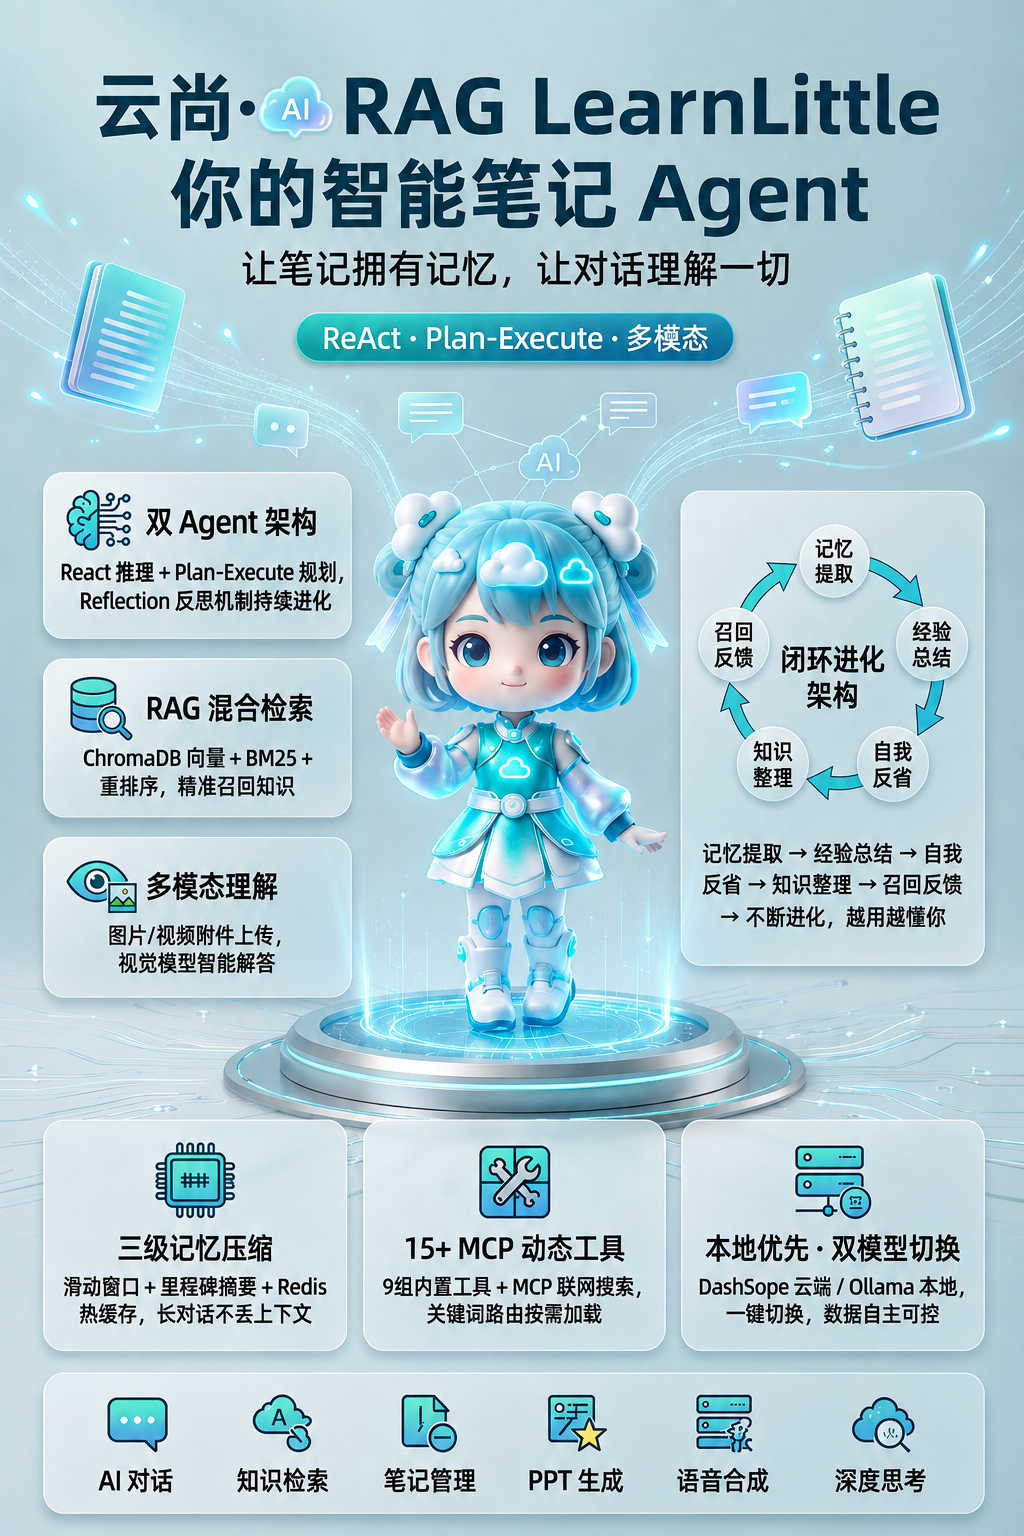
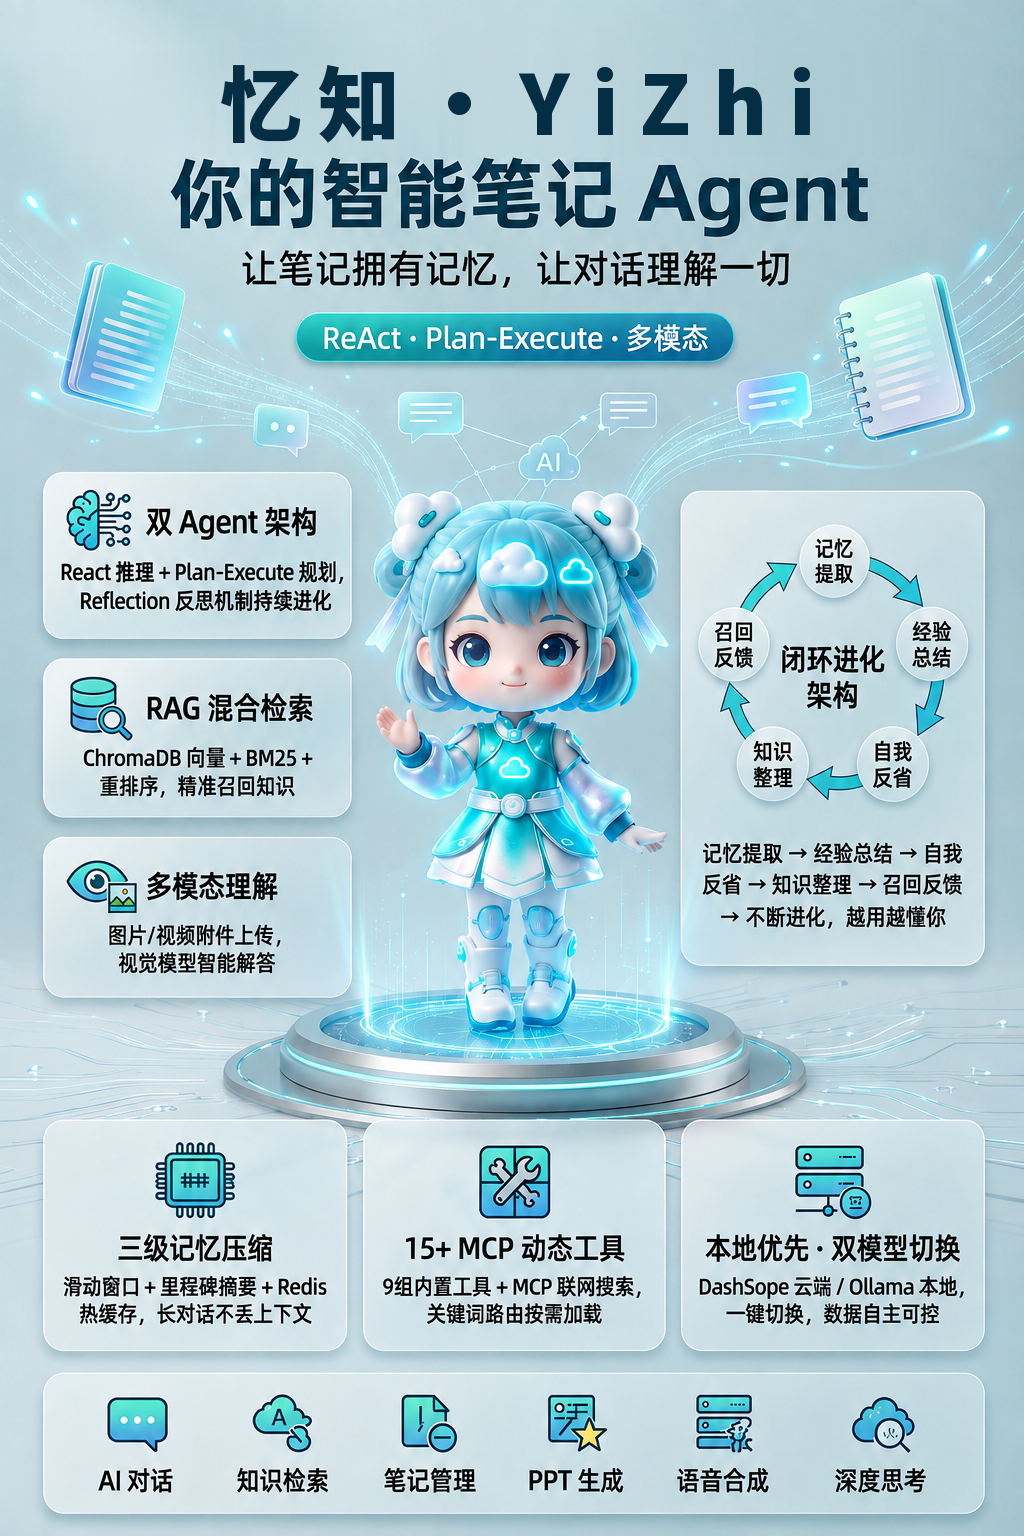
更名收尾：AI 人设名改为小忆，同步更新界面文案、头像与 README 截图

Changed region(s): [[0.0938, 0.0312, 0.9375, 0.0938]]

diff --git a/front/src/components/layout/AIAssistantPanel.tsx b/front/src/components/layout/AIAssistantPanel.tsx
@@ -278,9 +278,9 @@ export default function AIAssistantPanel({ isVisible, view, onViewChange, onClos
         }}
       >
         <div className="flex items-center gap-3 mb-2.5">
-          {/* 小云云角色头像（白色圆环） */}
+          {/* 小忆角色头像（白色圆环） */}
           <div className="w-10 h-10 rounded-full overflow-hidden shrink-0 ring-2 ring-white/30">
-            <img src="/avatars/xiaoyunyun.png" alt="小云云" className="w-full h-full object-cover" />
+            <img src="/avatars/xiaoyiyi.png" alt="小忆" className="w-full h-full object-cover" />
           </div>
           <div className="flex-1 min-w-0">
             <h3 className="text-base font-bold text-[var(--color-assistant-header-text)]">{t('assistant.title')}</h3>
@@ -376,7 +376,7 @@ export default function AIAssistantPanel({ isVisible, view, onViewChange, onClos
                     {/* 头像光晕背景 */}
                     <div className="absolute inset-0 rounded-full bg-gradient-to-br from-[#4a9eff]/20 to-[#4a9eff]/5 blur-xl" />
                     <div className="relative w-20 h-20 rounded-full overflow-hidden ring-2 ring-[#4a9eff]/20 ring-offset-2 ring-offset-[var(--color-assistant-bg)]">
-                      <img src="/avatars/xiaoyunyun.png" alt="小云云" className="w-full h-full object-cover" />
+                      <img src="/avatars/xiaoyiyi.png" alt="小忆" className="w-full h-full object-cover" />
                     </div>
                   </div>
                   <h2 className="text-xl font-bold mb-1.5 bg-gradient-to-r from-[#1a2a4a] to-[#4a9eff] bg-clip-text text-transparent">{t('assistant.emptyTitle')}</h2>

diff --git a/front/src/i18n/locales/zh-CN.ts b/front/src/i18n/locales/zh-CN.ts
@@ -19,7 +19,7 @@ const zh = {
 
   // 顶部导航栏（v2 新增）
   'topbar.searchPlaceholder': '搜索笔记... ⌘K',
-  'topbar.assistant': 'Hi, 我是 小云云 ~',
+  'topbar.assistant': 'Hi, 我是 小忆 ~',
   'topbar.userMenu': '用户菜单',
 
   // 全局搜索（v2 阶段四新增）
@@ -33,7 +33,7 @@ const zh = {
   'gsearch.searchFailed': '搜索失败，请稍后重试（网络或外部服务异常）',
 
   // AI 对话浮层（v2 新增）
-  'assistant.title': 'Hi, 我是 小云云 ~',
+  'assistant.title': 'Hi, 我是 小忆 ~',
   'assistant.subtitle': '基于你的笔记知识库，我可以帮你：',
   'assistant.viewChat': '对话',
   'assistant.viewHistory': '历史会话',

diff --git a/front/src/index.css b/front/src/index.css
@@ -75,7 +75,7 @@
   --color-search-border: #d4dff0;
   --color-search-focus-border: var(--color-accent);
 
-  /* AI 助手浮层专用 — 小云云海蓝色主题 */
+  /* AI 助手浮层专用 — 小忆海蓝色主题 */
   --color-assistant-bg: #ffffff;
   --color-assistant-border: #dce8f8;
   --color-assistant-shadow: 0 8px 32px rgba(74, 158, 255, 0.10);
@@ -96,7 +96,7 @@
   --color-badge-txt-bg: #e3f2fd;
   --color-badge-txt-text: #1565c0;
 
-  /* 快捷操作按钮（海蓝色系，与小云云海报统一） */
+  /* 快捷操作按钮（海蓝色系，与小忆海报统一） */
   --color-quick-action-bg: #eef4ff;
   --color-quick-action-text: #2b7de9;
   --color-quick-action-border: #c5dcff;

diff --git a/front/src/components/chat/MessageBubble.tsx b/front/src/components/chat/MessageBubble.tsx
@@ -97,7 +97,7 @@ export default function MessageBubble({ msg, isLast, isStreaming, userAvatar, pl
     <div className={`flex items-start gap-2 ${isUser ? 'justify-end' : 'justify-start'} ai-msg-enter`}>
       {!isUser && (
         <div className="flex-shrink-0 w-8 h-8 rounded-full overflow-hidden ring-2 ring-[#4a9eff]/15 shadow-[0_0_8px_rgba(74,158,255,0.12)]">
-          <img src="/avatars/xiaoyunyun.png" alt="小云云" className="w-full h-full object-cover" />
+          <img src="/avatars/xiaoyiyi.png" alt="小忆" className="w-full h-full object-cover" />
         </div>
       )}
       <div className={`max-w-[80%] p-3 rounded-[var(--radius-md)] ${

diff --git a/front/src/i18n/locales/en-US.ts b/front/src/i18n/locales/en-US.ts
@@ -19,7 +19,7 @@ const en = {
 
   // Top bar (v2)
   'topbar.searchPlaceholder': 'Search notes... ⌘K',
-  'topbar.assistant': "Hi, I'm YUNYUN ~",
+  'topbar.assistant': "Hi, I'm XIAOYI ~",
   'topbar.userMenu': 'User menu',
 
   // Global search (v2 phase 4)
@@ -33,7 +33,7 @@ const en = {
   'gsearch.searchFailed': 'Search failed. Please retry later (network or external service issue)',
 
   // AI assistant panel (v2)
-  'assistant.title': "Hi, I'm YUNYUN ~",
+  'assistant.title': "Hi, I'm XIAOYI ~",
   'assistant.subtitle': 'Based on your notes knowledge base, I can help you:',
   'assistant.viewChat': 'Chat',
   'assistant.viewHistory': 'History',

diff --git a/front/src/components/layout/TopBar.tsx b/front/src/components/layout/TopBar.tsx
@@ -69,7 +69,7 @@ export default function TopBar({ assistantVisible, onToggleAssistant, onGlobalSe
                 : 'text-[var(--color-quick-action-text)] bg-[var(--color-quick-action-bg)] border border-[var(--color-quick-action-border)] hover:opacity-90'
             }`}
         >
-          <img src="/avatars/xiaoyunyun.png" alt="小云云" className="w-4 h-4 rounded-full object-cover" />
+          <img src="/avatars/xiaoyiyi.png" alt="小忆" className="w-4 h-4 rounded-full object-cover" />
           <span>{t('topbar.assistant')}</span>
         </button>
         <UserAvatarMenu />
